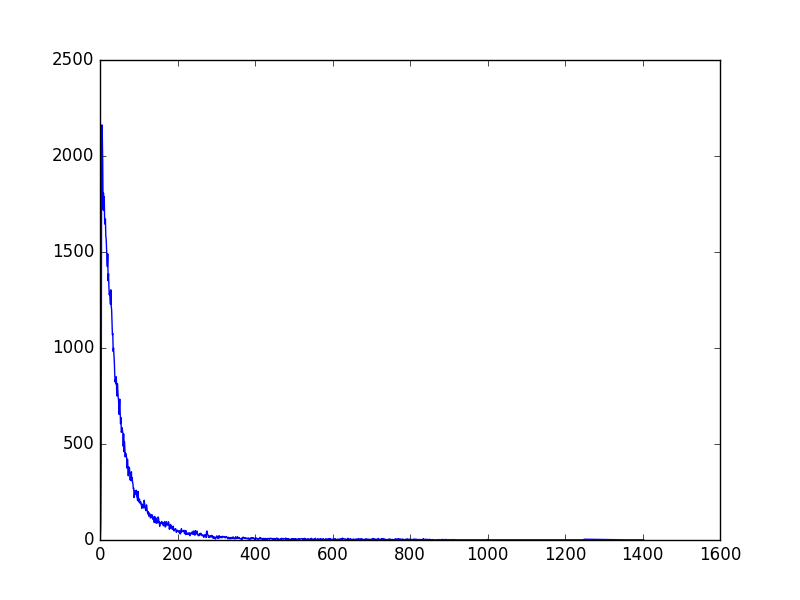
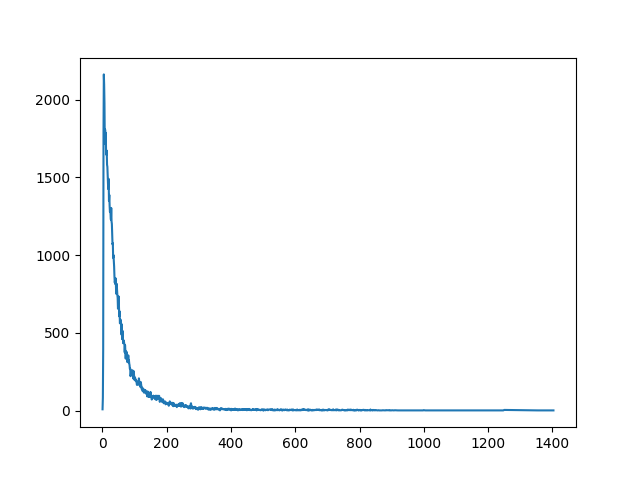
增加word2vec和readme

diff --git a/NBOW/PreProcess.py b/NBOW/PreProcess.py
@@ -7,12 +7,14 @@ import jieba
 import jieba.analyse
 import random
 
+import numpy as np
 import pandas as pd
 import matplotlib.pyplot as plt
 
 from sklearn.model_selection import train_test_split
 from tensorflow.contrib import learn
 from collections import Counter
+from gensim.models.word2vec import Word2Vec
 
 
 def count_information():
@@ -26,7 +28,6 @@ def count_information():
 
     Dict = sorted(Counter(length).items(), key=lambda val: val[0], reverse=False)
     key, value = zip(*Dict)
-    print(Dict)
     plt.plot(key, value)
     plt.savefig("length.png")
 
@@ -36,19 +37,49 @@ class data(object):
         self.df = pd.read_csv(file_test).dropna()
         self.context = self.df["comment_text"].values
         self.label = self.df[["toxic", "severe_toxic", "obscene", "threat", "insult", "identity_hate"]].values
+        self.normal_label = np.array([0 if number > 0 else 1 for number in np.sum(self.label, axis=1)])
+        self.label = np.concatenate((self.label, np.expand_dims(self.normal_label, axis=-1)), axis=1)
 
     def encode_word(self):
-        if os.path.exists("./pkl/train.csv"):
-            vocab_processor = learn.preprocessing.VocabularyProcessor(max_document_length=600, min_frequency=5)
+        if not os.path.exists("./pkl/train.pkl"):
+            vocab_processor = learn.preprocessing.VocabularyProcessor(
+                max_document_length=600,
+                min_frequency=3
+            )
             all_context = list(vocab_processor.fit_transform(self.context))
+            context_ids = [list(range(len(vocab_processor.vocabulary_)))]
+
             print("number of words :", len(vocab_processor.vocabulary_))
+            print(vocab_processor.reverse(context_ids))
+            for index in vocab_processor.reverse(context_ids):
+                print(index)
+
             self.train_x, self.test_x, self.train_y, self.test_y = train_test_split(list(all_context), self.label, test_size=0.01)
             pickle.dump((self.train_x, self.train_y), open("./pkl/train.pkl", "wb"))
             pickle.dump((self.test_x, self.test_y), open("./pkl/test.pkl", "wb"))
+            pickle.dump(list(vocab_processor.reverse(context_ids)), open("./pkl/bag.pkl", "wb"))
         else:
             self.train_x, self.train_y = pickle.load(open("./pkl/train.pkl", "rb"))
             self.test_x, self.test_y = pickle.load(open("./pkl/test.pkl", "rb"))
         return self
+
+    def load_word2vec(self):
+        '''
+        
+        '''
+        model = Word2Vec.load("../word2vec/model/word2vec.model")
+        print("load models end")
+        model.train(sentences=data.generator(self.context),
+                    total_examples=model.corpus_count,
+                    epochs=model.iter)
+        print(model.corpus_count)
+        print("train models end")
+        print(model.most_similarity("model"))
+
+    @staticmethod
+    def generator(List):
+        for index in List:
+            yield index
 
     @staticmethod
     def get_batch(epoches, batch_size):
@@ -63,10 +94,5 @@ class data(object):
 
 
 if __name__ == "__main__":
-    Data = data("../data/train.csv").encode_word().get_batch(5, 400)
-
-    number = 0
-    for idx in Data:
-        number += 1
-    print(number)
-
+    count_information()
+    Data = data("../data/train.csv").encode_word().load_word2vec()

diff --git a/NBOW/train.py b/NBOW/train.py
@@ -21,11 +21,12 @@ with tf.Graph().as_default():
     with sess.as_default():
         lstm = nbow(sentence_len=600,
                     embedding_size=150,
-                    vocab_size=35000,
-                    num_label=6)
+                    vocab_size=47000,
+                    num_label=7,
+                    batch_size=800)
 
-        optimizer = tf.train.AdamOptimizer(0.0001)
-        grads_and_vars = optimizer.compute_gradients(lstm.loss)
+        optimizer = tf.train.AdamOptimizer(0.001)
+        grads_and_vars = optimizer.compute_gradients(lstm.loss_train)
         global_step = tf.Variable(0, name="global_step", trainable=False)
         tr_op_set = optimizer.apply_gradients(grads_and_vars, global_step=global_step)
 
@@ -35,31 +36,23 @@ with tf.Graph().as_default():
             feed_dict = {
                 lstm.input: batch,
                 lstm.label: label,
-                lstm.dropout_keep_prob: 0.8
             }
-            _, step, loss = sess.run(
-                [tr_op_set, global_step, lstm.loss],
-                feed_dict=feed_dict)
-
+            _, step, loss = sess.run([tr_op_set, global_step, lstm.loss_train], feed_dict=feed_dict)
             time_str = datetime.datetime.now().isoformat()
             print("{}: step {}, loss {}".format(time_str, step, loss))
             global_loss.append(loss)
+
 
         def dev_step(batch, label):
             feed_dict = {
                 lstm.input: batch,
                 lstm.label: label,
-                lstm.dropout_keep_prob: 0.0
             }
-            step, loss = sess.run([global_step, lstm.loss], feed_dict=feed_dict)
+            step, loss = sess.run([global_step, lstm.loss_test], feed_dict=feed_dict)
             time_str = datetime.datetime.now().isoformat()
             print("{}: step {}, loss {:g}".format(time_str, step, loss))
 
-
-        # x_train, y_train, x_dev, y_dev = split_data()
-        # batches = batch_iter(list(zip(x_train, y_train)), batch_size=200, num_epochs=50)
-
-        batches = data("../data/train.csv").encode_word().get_batch(5, 400)
+        batches = data("../data/train.csv").encode_word().get_batch(10, 800)
         x_dev, y_dev = pickle.load(open("./pkl/test.pkl", "rb"))
         for data in batches:
             x_train, y_train = zip(*data)
@@ -75,11 +68,5 @@ with tf.Graph().as_default():
         plt.xlabel("batches")
         plt.ylabel("loss")
         plt.savefig("loss_modify.png")
-        plt.close()
-
-        plt.plot(x, global_accuracy, 'b', label="accuracy")
-        plt.xlabel("batches")
-        plt.ylabel("accuracy")
-        plt.savefig("accuracy.png")
         plt.close()
 

diff --git a/NBOW/nbow.py b/NBOW/nbow.py
@@ -2,31 +2,35 @@ import tensorflow as tf
 
 
 class nbow(object):
-    def __init__(self, sentence_len, vocab_size, embedding_size, num_label):
+    def __init__(self, sentence_len, vocab_size, embedding_size, num_label, batch_size):
         self.input = tf.placeholder(dtype=tf.int32, shape=[None, sentence_len])
         self.label = tf.placeholder(dtype=tf.float32, shape=[None, num_label])
-        self.dropout_keep_prob = tf.placeholder(dtype=tf.float32)
 
         with tf.name_scope("embedding"):
             w = tf.Variable(tf.truncated_normal(shape=[vocab_size, embedding_size]), dtype=tf.float32)
             self.input_embedding = tf.nn.embedding_lookup(params=w, ids=self.input)
-            print(self.input_embedding)
 
         with tf.name_scope("mean_pooling"):
             self.feature = tf.reduce_mean(self.input_embedding, axis=1)
-
-        with tf.name_scope("dropout"):
-            self.feature_dropout = tf.nn.dropout(self.feature, keep_prob=self.dropout_keep_prob)
 
         with tf.name_scope("full_connected"):
             w = tf.Variable(tf.truncated_normal(shape=[embedding_size, num_label]), dtype=tf.float32)
             b = tf.Variable(tf.truncated_normal(shape=[num_label]), dtype=tf.float32)
             self.logits = tf.sigmoid(tf.nn.xw_plus_b(self.feature, w, b))
 
-        with tf.name_scope("loss"):
-            self.losses = tf.nn.softmax_cross_entropy_with_logits(logits=self.logits, labels=self.label)
-            self.loss = tf.reduce_mean(self.losses)
+        with tf.name_scope("loss_train"):
+            self.losses_train = tf.nn.softmax_cross_entropy_with_logits(logits=self.logits, labels=self.label)
+            self.loss_train = tf.reduce_mean(self.losses_train)
 
-        # with tf.name_scope("prediction"):
-        #     self.equal = tf.cast(tf.equal(tf.argmax(self.logits, axis=1), tf.argmax(self.label, axis=1)), dtype=tf.float32)
-        #     self.accuracy = tf.reduce_mean(self.equal)
+        with tf.name_scope("loss_test"):
+            self.logits_test = tf.slice(self.logits, [0, 0], [batch_size, num_label - 1])
+            self.label_test = tf.slice(self.label, [0, 0], [batch_size, num_label - 1])
+            self.losses_test = tf.nn.sigmoid_cross_entropy_with_logits(logits=self.logits_test, labels=self.label_test)
+            self.loss_test = tf.reduce_mean(self.losses_test)
+
+
+# lstm = nbow(sentence_len=600,
+#             embedding_size=150,
+#             vocab_size=47000,
+#             num_label=7,
+#             batch_size=100)

diff --git a/word2vec/extract_wiki.py b/word2vec/extract_wiki.py
@@ -1,0 +1,46 @@
+#!/usr/bin/env python
+# -*- coding: utf-8 -*-
+# Author: Pan Yang (panyangnlp@gmail.com)
+# Copyrigh 2017
+
+from __future__ import print_function
+
+import logging
+import os.path
+import six
+import sys
+
+from gensim.corpora import WikiCorpus
+
+if __name__ == '__main__':
+    program = os.path.basename(sys.argv[0])
+    logger = logging.getLogger(program)
+
+    logging.basicConfig(format='%(asctime)s: %(levelname)s: %(message)s')
+    logging.root.setLevel(level=logging.INFO)
+    logger.info("running %s" % ' '.join(sys.argv))
+
+    # check and process input arguments
+    if len(sys.argv) != 3:
+        print("Using: python process_wiki.py enwiki.xxx.xml.bz2 wiki.en.text")
+        sys.exit(1)
+    inp, outp = sys.argv[1:3]
+    space = " "
+    i = 0
+
+    output = open(outp, 'w')
+    wiki = WikiCorpus(inp, lemmatize=False, dictionary={})
+    for text in wiki.get_texts():
+        if six.PY3:
+            output.write(bytes(' '.join(text), 'utf-8').decode('utf-8') + '\n')
+        #   ###another method###
+        #    output.write(
+        #            space.join(map(lambda x:x.decode("utf-8"), text)) + '\n')
+        else:
+            output.write(space.join(text) + "\n")
+        i = i + 1
+        if (i % 10000 == 0):
+            logger.info("Saved " + str(i) + " articles")
+
+    output.close()
+    logger.info("Finished Saved " + str(i) + " articles")

diff --git a/word2vec/gensim_vec.py b/word2vec/gensim_vec.py
@@ -1,0 +1,11 @@
+import multiprocessing
+
+from gensim.models import word2vec
+from gensim.models.word2vec import LineSentence
+from gensim.models.word2vec import Word2Vec
+
+sentences = LineSentence("wiki.en.text")
+print("loading sentences end")
+model = Word2Vec(sentences, size=400, window=5, min_count=5, workers=8)
+model.save("./model/word2vec.model")
+

diff --git a/readme.md b/readme.md
@@ -1,0 +1,23 @@
+#Toxic Comment Classification Challenge
+
+##比赛链接：
+    https://www.kaggle.com/c/jigsaw-toxic-comment-classification-challenge
+
+<center>
+##训练数据总览
+</center>
+
+####1. 训练数据label的数量：训练数据总量为：95851条
+        | toxic | severe_toxic | obscene | threat | insult | identity_hate  | normal |
+        | 9237  | 965          |   5109  |   305  |  4765  |      814       | 86061  |
+
+
+####2. 训练数据文本总览
+
+<center>
+![](./NBOW/length.png) 
+</center>
+
+
+####3. word2vec文件夹
+使用英文wiki数据集（14G）训练word2vec文件。作为提前训练好的向量
